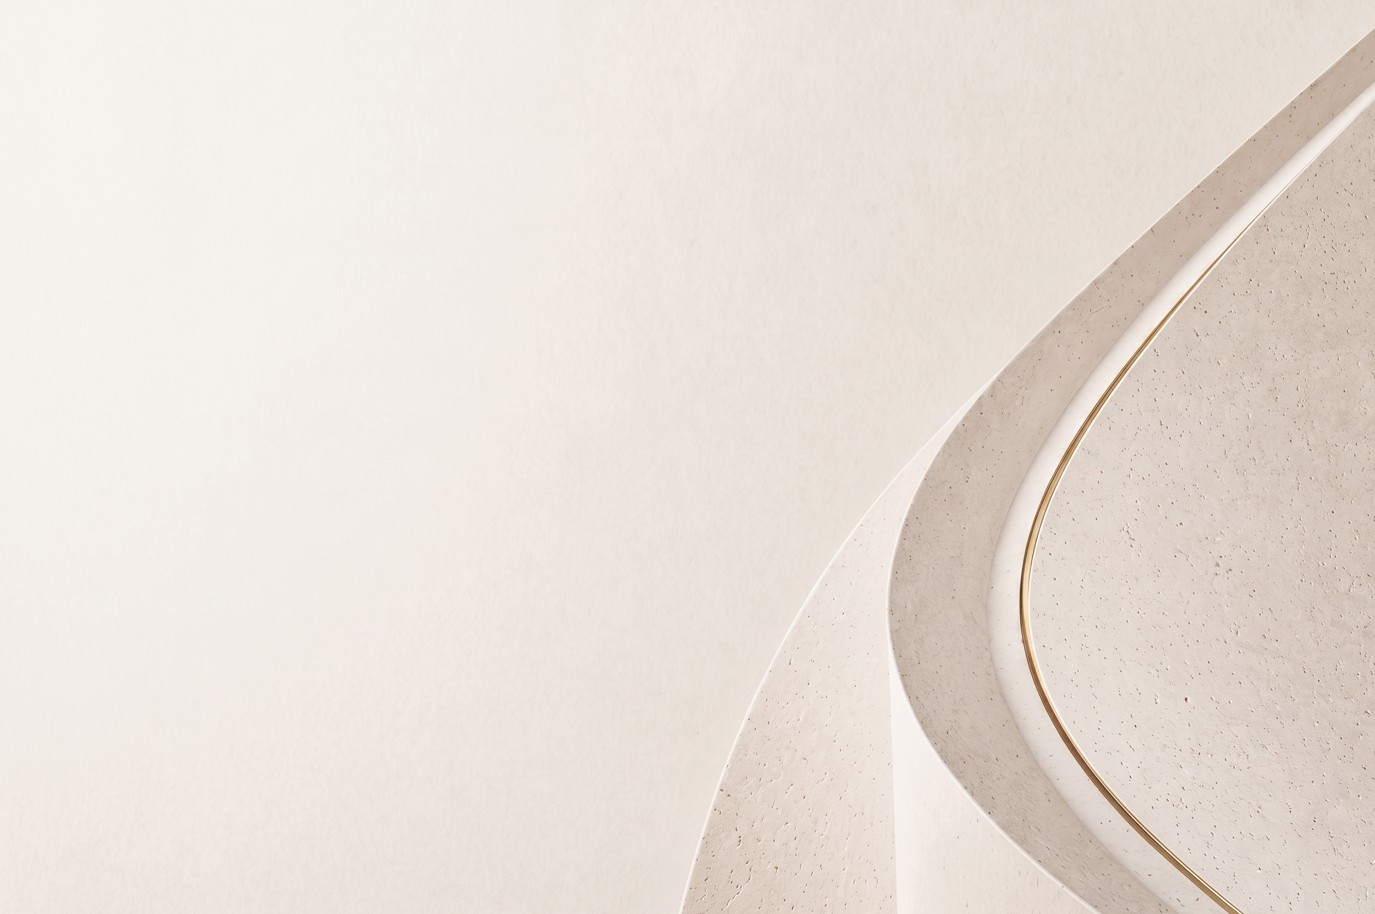
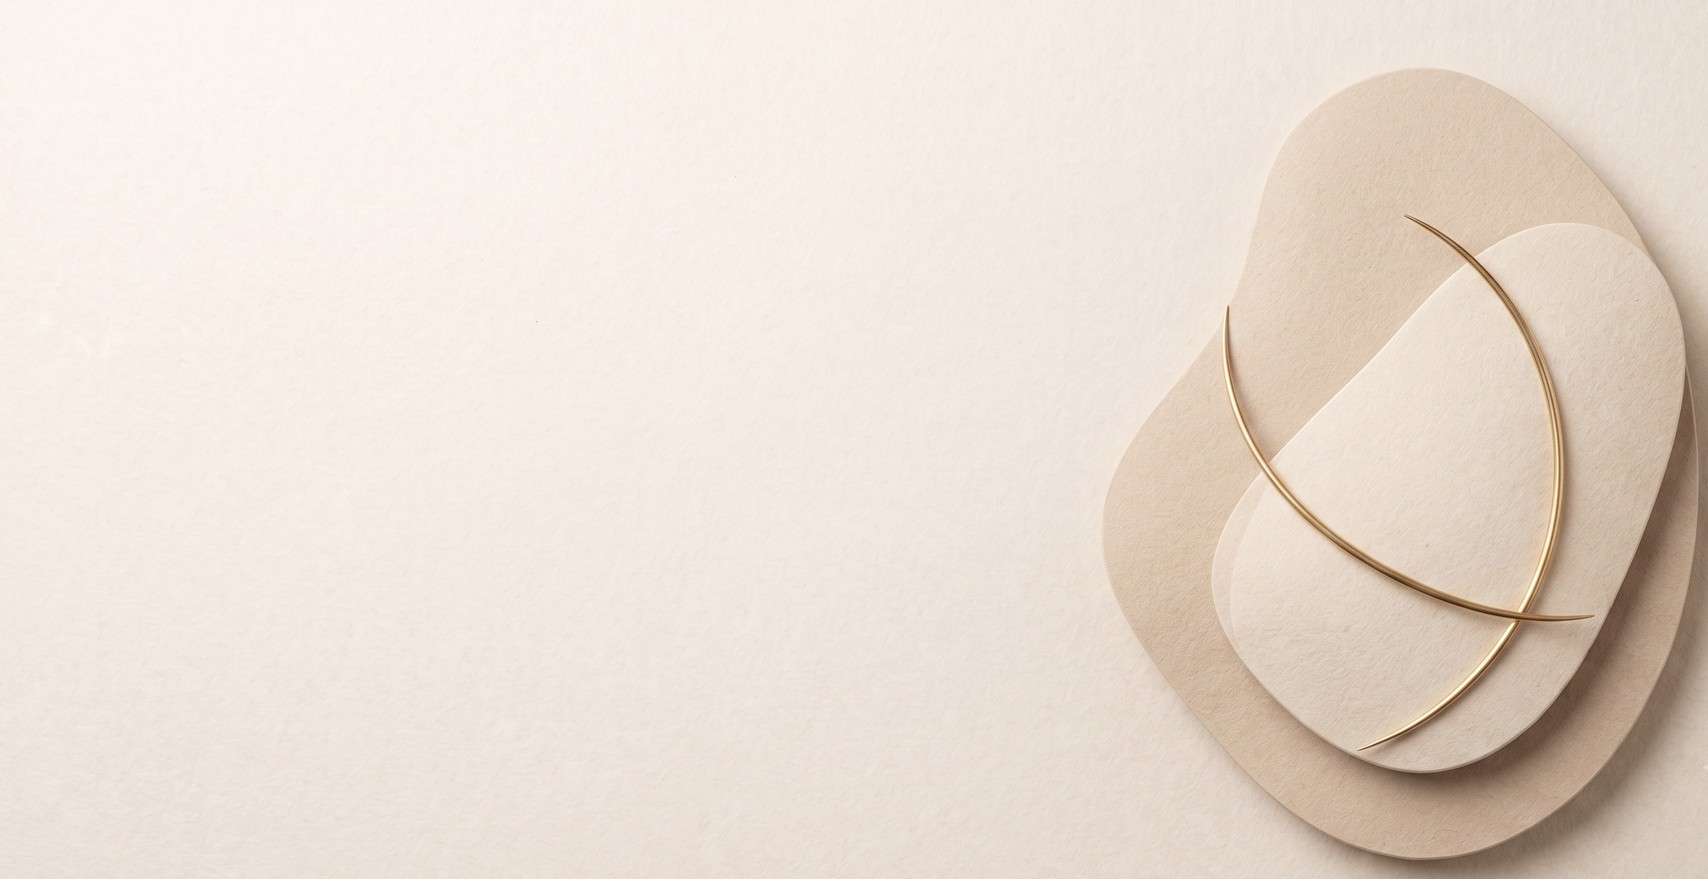
Add new edits addedg now for see more an ghero image of about us

Changed region(s): [[0.6415, 0.0307, 1.0, 1.0], [0.4887, 0.8601, 0.5498, 1.0]]

diff --git a/public/assets/frontend/css/aboutus.css b/public/assets/frontend/css/aboutus.css
@@ -342,7 +342,7 @@ footer { background-color: transparent; color: var(--text-muted); padding: 80px 
 
 .disclaimer-text {
     display: -webkit-box;
-    -webkit-line-clamp: 2; /* Shows exactly 2 lines and adds the ellipsis */
+    -webkit-line-clamp: 3; /* Set to 3 to precisely match the screenshot output */
     -webkit-box-orient: vertical;
     overflow: hidden;
     text-overflow: ellipsis;
@@ -350,7 +350,7 @@ footer { background-color: transparent; color: var(--text-muted); padding: 80px 
 }
 
 .disclaimer-text.expanded {
-    display: block; /* Removes the line clamp */
+    display: block;
     -webkit-line-clamp: unset;
     overflow: visible;
 }
@@ -359,19 +359,19 @@ footer { background-color: transparent; color: var(--text-muted); padding: 80px 
 .see-more-btn {
     background: transparent;
     border: none;
-    color: #000000 !important; /* Deep black all the time */
-    font-weight: 400;
+    color: var(--text-dark) !important; /* Deep text based on your variable */
+    font-weight: 400; /* As requested */
+    font-size: 10px;  /* As requested */
     padding: 0;
     cursor: pointer;
     text-decoration: underline;
-    font-size: 10px; /* Adjust to match your footer font size */
     transition: opacity 0.2s ease;
-    margin-top: 8px; /* Slight spacing below the text */
+    margin-top: 8px;
     display: inline-block;
 }
 
 .see-more-btn:hover {
-    opacity: 0.7; /* Slight fade effect on hover, but stays black */
+    opacity: 0.7;
 }
 
 /* --- RESPONSIVE MEDIA QUERIES --- */